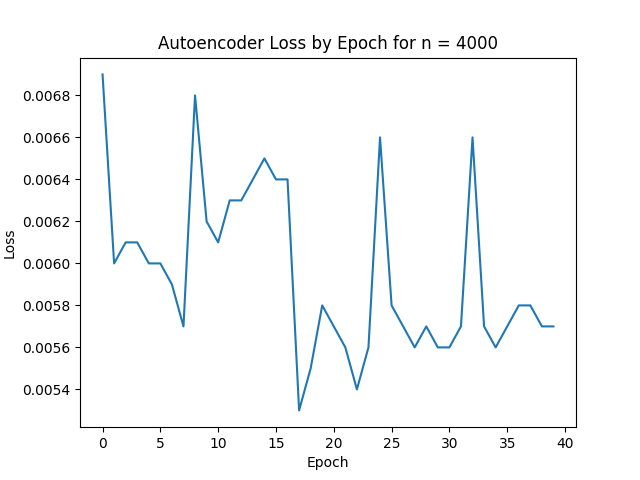
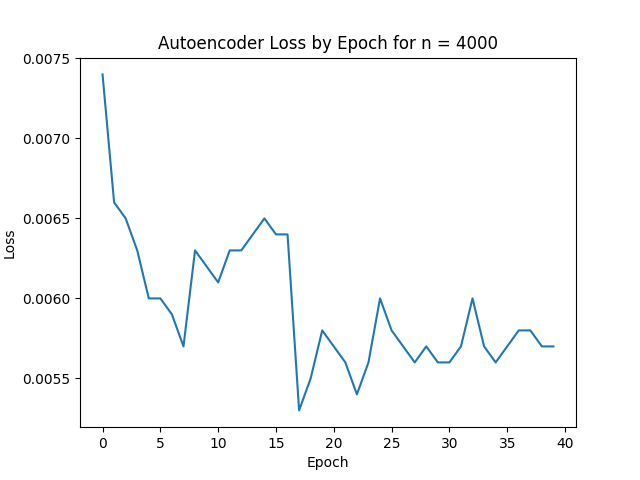
rerun once manually

diff --git a/manual_graph_bugfix.py b/manual_graph_bugfix.py
@@ -1,23 +1,23 @@
 import numpy as np
 import matplotlib.pyplot as plt
 
-manual_train = np.array([[0.0, 0.004000000189989805, 0.004000000189989805, 0.004999999888241291], 
-[0.00800000037997961, 0.05999999865889549, 0.0, 0.003000000026077032] ,
-[0.00800000037997961, 0.004000000189989805, 0.0, 0.006000000052154064],
-[0.01600000075995922, 0.0, 0.0, 0.004000000189989805],
-[0.01600000075995922, 0.06800000369548798, 0.004000000189989805, 0.004000000189989805],
-[0.00800000037997961, 0.004000000189989805, 0.004000000189989805, 0.007000000216066837]])
+manual_train = np.array([[0.0, 0.004000000189989805, 0.004000000189989805, 0.004999999888241291, 0.00800000037997961, 0.0024999999441206455,], 
+[0.00800000037997961, 0.005999999865889549, 0.0, 0.003000000026077032, 0.006500000134110451, 0.004000000189989805] ,
+[0.00800000037997961, 0.004000000189989805, 0.0, 0.006000000052154064, 0.006000000052154064, 0.004000000189989805],
+[0., 0.0, 0.0, 0.004000000189989805, 0.005499999970197678, 0.004749999847263098],
+[0.00800000037997961, 0.006800000369548798, 0.004000000189989805, 0.004000000189989805, 0.006500000134110451, 0.0042500002309679985],
+[0.00800000037997961, 0.004000000189989805, 0.004000000189989805, 0.007000000216066837, 0.006000000052154064, 0.004000000189989805]])
 
-manual_test = np.array([[0.20569999516010284, 0.10540000349283218, 0.0940999984741211, 0.06430000066757202], 
-[0.23469999432563782, 0.16439999639987946, 0.09390000253915787, 0.07280000299215317, ],
-[0.19910000264644623, 0.12210000306367874, 0.09440000355243683, 0.0763000026345253,],
-[0.20340000092983246, 0.10209999978542328, 0.09220000356435776, 0.07410000264644623],
-[0.20350000262260437, 0.1647000014781952, 0.09480000287294388, 0.0689999982714653],
-[0.20069999992847443, 0.11659999936819077, 0.09989999979734421, 0.06870000064373016]])
+manual_test = np.array([[0.20569999516010284, 0.10540000349283218, 0.0940999984741211, 0.06430000066757202, 0.047200001776218414, 0.025699999183416367], 
+[0.21209999918937683, 0.115999639987946, 0.09390000253915787, 0.07280000299215317, 0.04439999908208847, 0.026900000870227814],
+[0.19910000264644623, 0.11210000306367874, 0.09440000355243683, 0.0763000026345253, 0.04360000044107437, 0.02759999968111515],
+[0.2020999938249588, 0.10209999978542328, 0.09220000356435776, 0.07410000264644623, 0.04129999876022339, 0.029400000348687172],
+[0.20350000262260437, 0.10859999936819077, 0.09480000287294388, 0.0689999982714653, 0.046300001442432404, 0.028999999165534973],
+[0.20069999992847443, 0.10059999936819077, 0.09189999979734421, 0.06370000064373016, 0.04839999973773956, 0.02659999968111515]])
 
 
 flip_num = 5
-plot_samples = np.array([125, 250, 500, 1000])
+plot_samples = np.array([125, 250, 500, 1000, 2000, 4000])
 log_plot_samples = np.log2(plot_samples)
 
 groups = ['Flip %d' % (d) for d in range(flip_num+5)]

diff --git a/manual_graph.py b/manual_graph.py
@@ -1,11 +1,11 @@
 import numpy as np
 import matplotlib.pyplot as plt
 
-manual = [0.0069, 0.0060, 0.0061, 0.0061, 0.0060, 0.0060, 0.0059, 0.0057,
-0.0068, 0.0062, 0.0061, 0.0063, 0.0063, 0.0064, 0.0065, 0.0064,
+manual = [0.0074, 0.0066, 0.0065, 0.0063, 0.0060, 0.0060, 0.0059, 0.0057,
+0.0063, 0.0062, 0.0061, 0.0063, 0.0063, 0.0064, 0.0065, 0.0064,
 0.0064, 0.0053, 0.0055, 0.0058, 0.0057, 0.0056, 0.0054, 0.0056,
-0.0066, 0.0058, 0.0057, 0.0056, 0.0057, 0.0056, 0.0056, 0.0057, 
-0.0066, 0.0057, 0.0056, 0.0057, 0.0058, 0.0058, 0.0057, 0.0057]
+0.0060, 0.0058, 0.0057, 0.0056, 0.0057, 0.0056, 0.0056, 0.0057, 
+0.0060, 0.0057, 0.0056, 0.0057, 0.0058, 0.0058, 0.0057, 0.0057]
 
 
 
